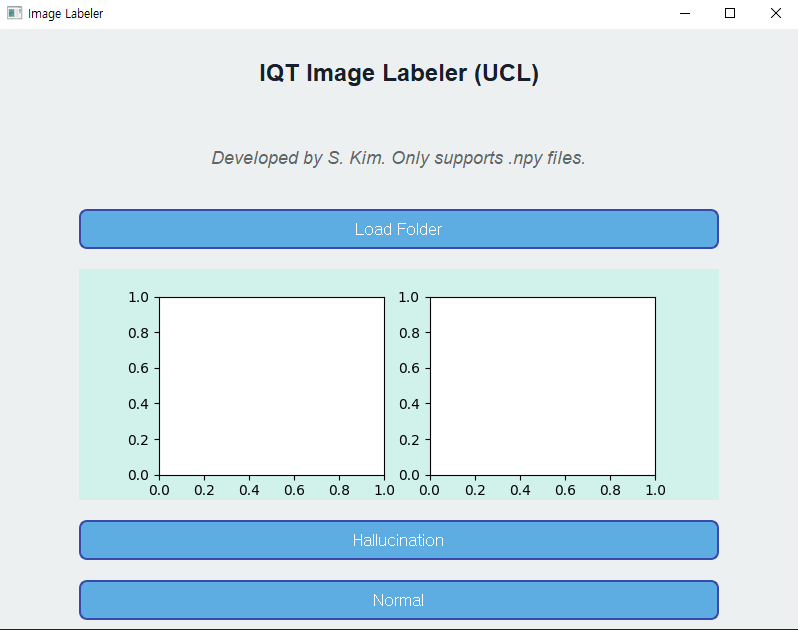
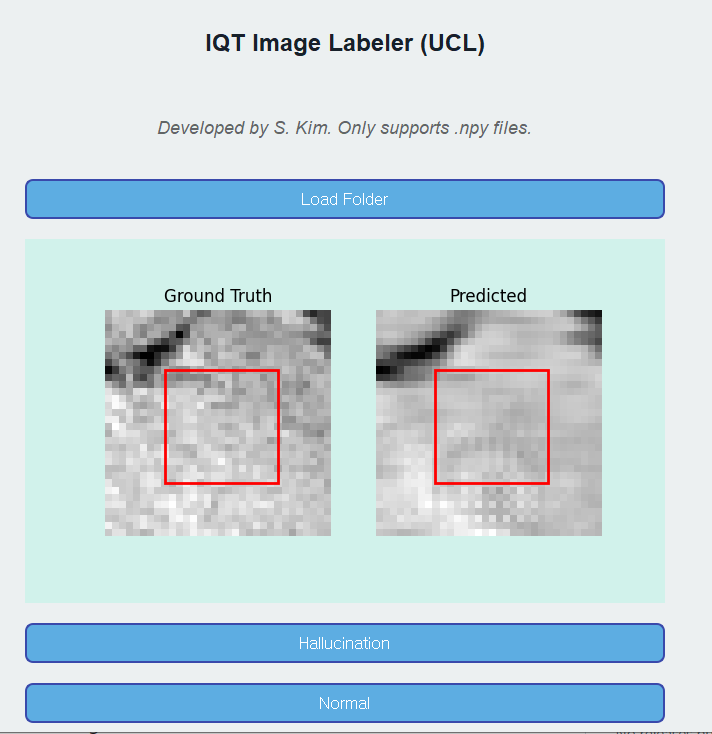
stylish

diff --git a/image_labeler.py b/image_labeler.py
@@ -7,6 +7,7 @@ from PyQt5.QtGui import QIcon, QFont
 from PyQt5.QtCore import Qt
 from matplotlib.figure import Figure
 from matplotlib.backends.backend_qt5agg import FigureCanvasQTAgg as FigureCanvas
+import matplotlib.patches as patches
 
 class ImageLabeler(QMainWindow):
     def __init__(self):
@@ -18,7 +19,7 @@ class ImageLabeler(QMainWindow):
 
     def initUI(self):
         self.setWindowTitle("Image Labeler")
-        self.setGeometry(100, 100, 800, 600)
+        self.setGeometry(100, 100, 700, 600)
         self.setStyleSheet("""
             QMainWindow {background-color: #ECF0F1;}
             QPushButton { 
@@ -109,9 +110,15 @@ class ImageLabeler(QMainWindow):
 
             # Display images using Matplotlib
             self.ax1.imshow(gt_image, cmap='gray')
+            # Create a rectangle patch to highlight the center of the image of size 16x16
+            rect = patches.Rectangle((gt_image.shape[1]//2 - 8, gt_image.shape[0]//2 - 8), 16, 16, linewidth=2, edgecolor='r', facecolor='none')
+            self.ax1.add_patch(rect)
             self.ax1.set_title('Ground Truth')
             self.ax1.axis('off')
             self.ax2.imshow(pred_image, cmap='gray')
+            # Create a rectangle patch to highlight the center of the image of size 16x16
+            rect = patches.Rectangle((pred_image.shape[1]//2 - 8, pred_image.shape[0]//2 - 8), 16, 16, linewidth=2, edgecolor='r', facecolor='none')
+            self.ax2.add_patch(rect)
             self.ax2.set_title('Predicted')
             self.ax2.axis('off')
 
